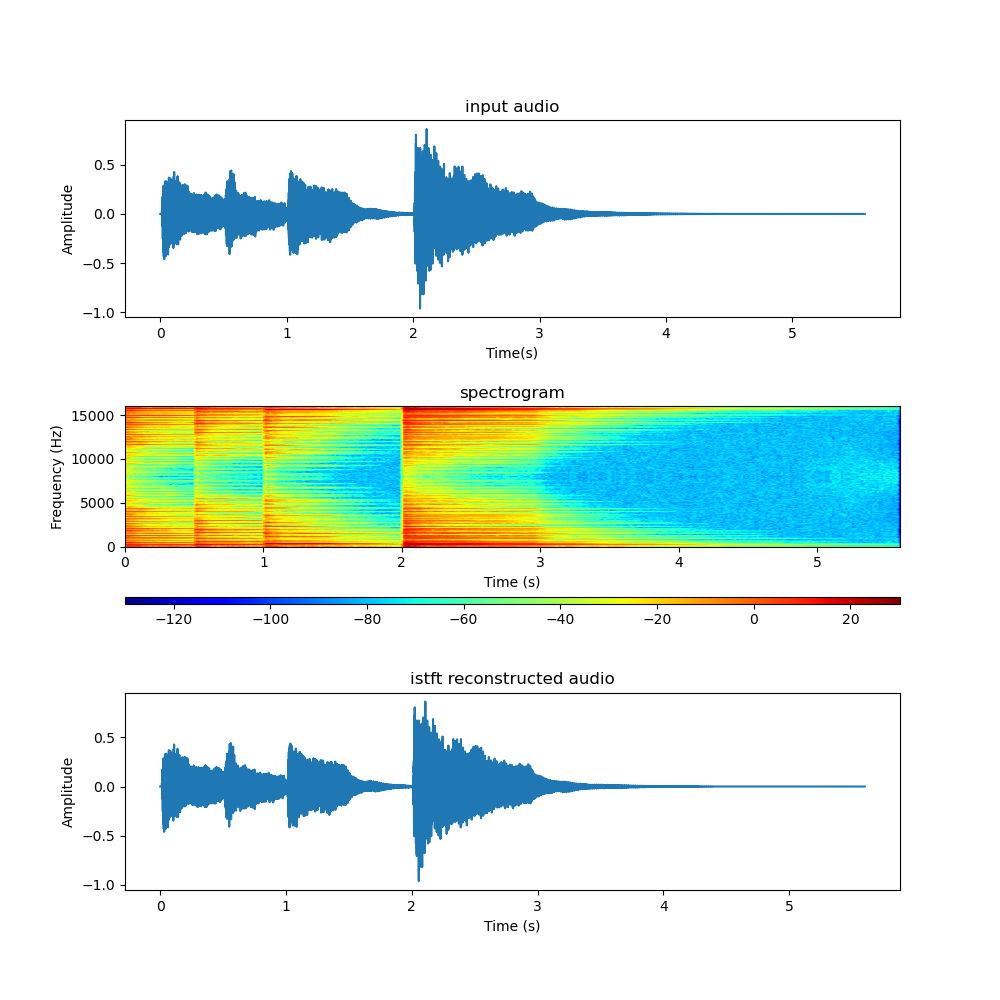
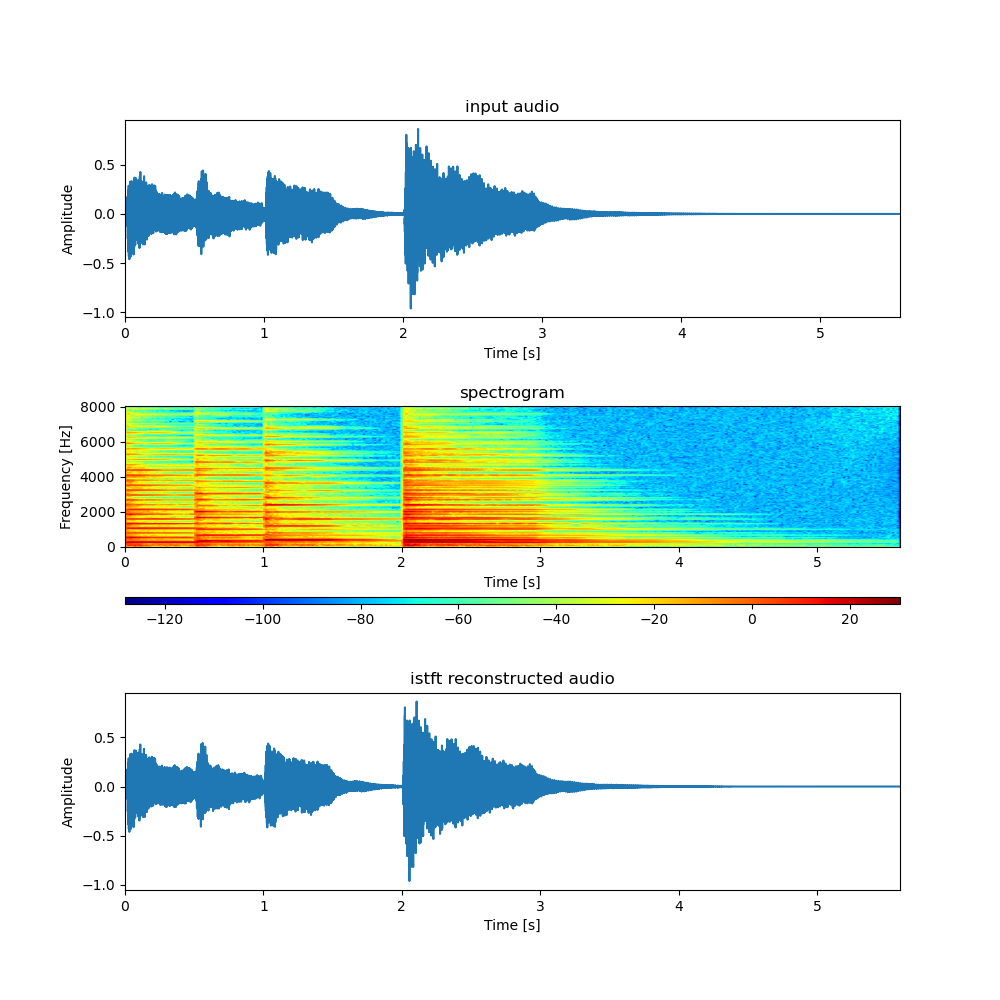
図の調整

diff --git a/ex01/sawada/main.py b/ex01/sawada/main.py
@@ -91,18 +91,21 @@ if __name__ == '__main__':
     t = np.linspace(0, len(wav) / sampling_rate, len(wav))
     ax[0].set_title("input audio")
     ax[0].plot(t, wav)
-    ax[0].set_xlabel("Time(s)")
+    ax[0].set_xlabel("Time [s]")
     ax[0].set_ylabel("Amplitude")
+    ax[0].set_xlim([t[0], t[-1]])
 
     # stft
     Zxx, t, f = stft(wav, sampling_rate)
 
     # plot stft
     ax[1].set_title("spectrogram")
-    im = ax[1].imshow(20 * np.log10(np.abs(Zxx)), cmap=plt.cm.jet,
-                      aspect="auto", extent=[t[0], t[-1], f[0], f[-1]])
-    ax[1].set_xlabel("Time (s)")
-    ax[1].set_ylabel("Frequency (Hz)")
+    im = ax[1].imshow(20 * np.log10(np.abs(np.flipud(Zxx[:Zxx.shape[0] // 2]))),
+                      cmap=plt.cm.jet,
+                      aspect="auto",
+                      extent=[t[0], t[-1], f[0], f[len(f) // 2]])
+    ax[1].set_xlabel("Time [s]")
+    ax[1].set_ylabel("Frequency [Hz]")
     # colorbar: https://sabopy.com/py/matplotlib-18/
     divider = make_axes_locatable(ax[1])
     cax = divider.append_axes("bottom", size="5%", pad=0.5)
@@ -121,8 +124,9 @@ if __name__ == '__main__':
     t = np.linspace(0, len(reconstructed) / sampling_rate, len(reconstructed))
     ax[2].set_title("istft reconstructed audio")
     ax[2].plot(t, reconstructed)
-    ax[2].set_xlabel("Time (s)")
+    ax[2].set_xlabel("Time [s]")
     ax[2].set_ylabel("Amplitude")
+    ax[2].set_xlim([t[0], t[-1]])
     # plt.show()
     plt.savefig("result.png")
     plt.close()
